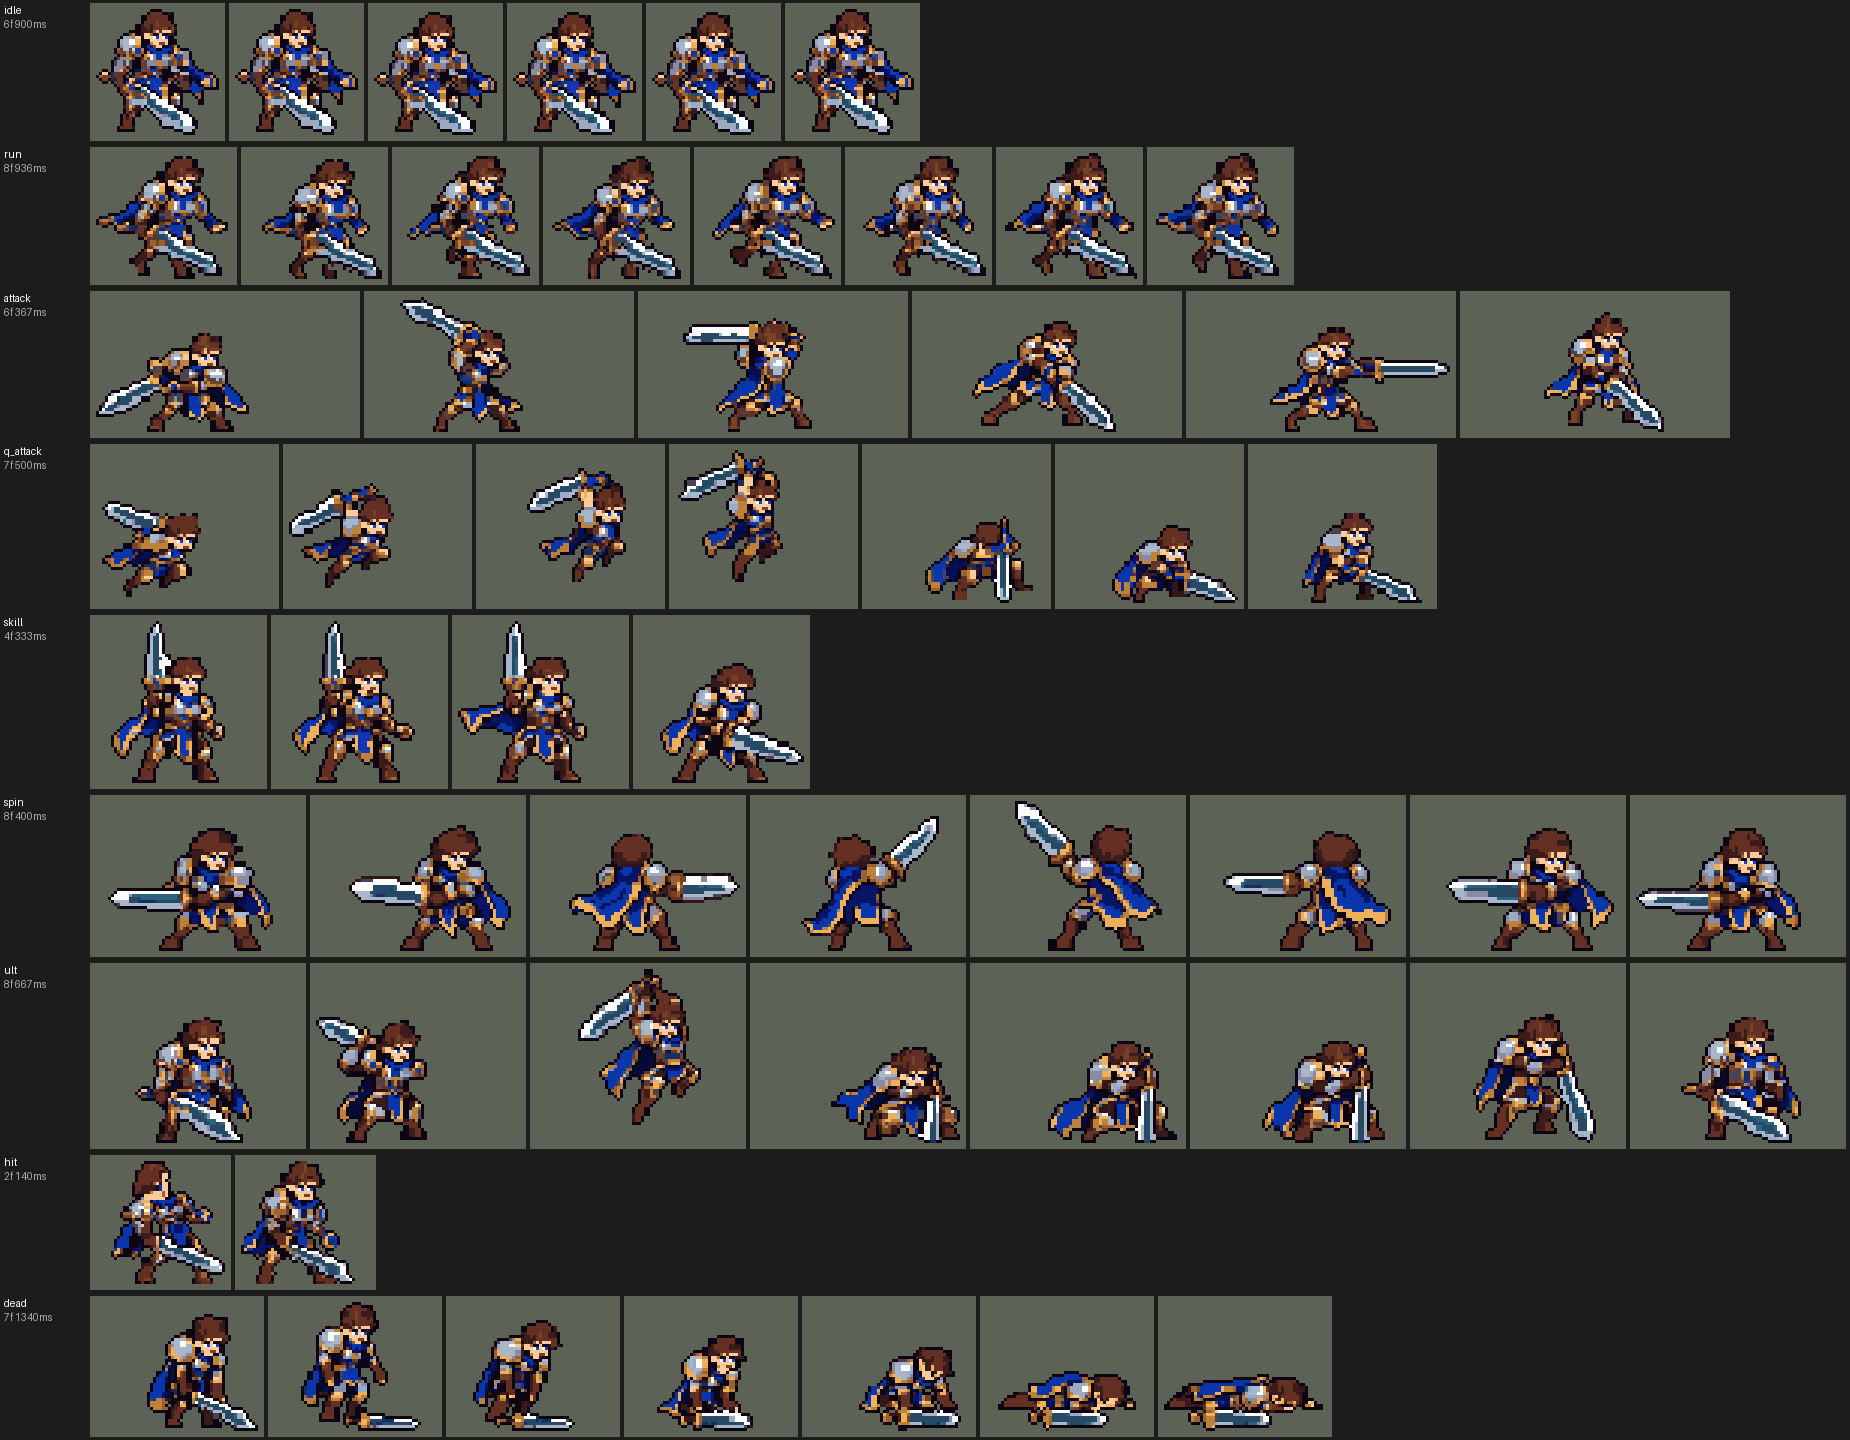
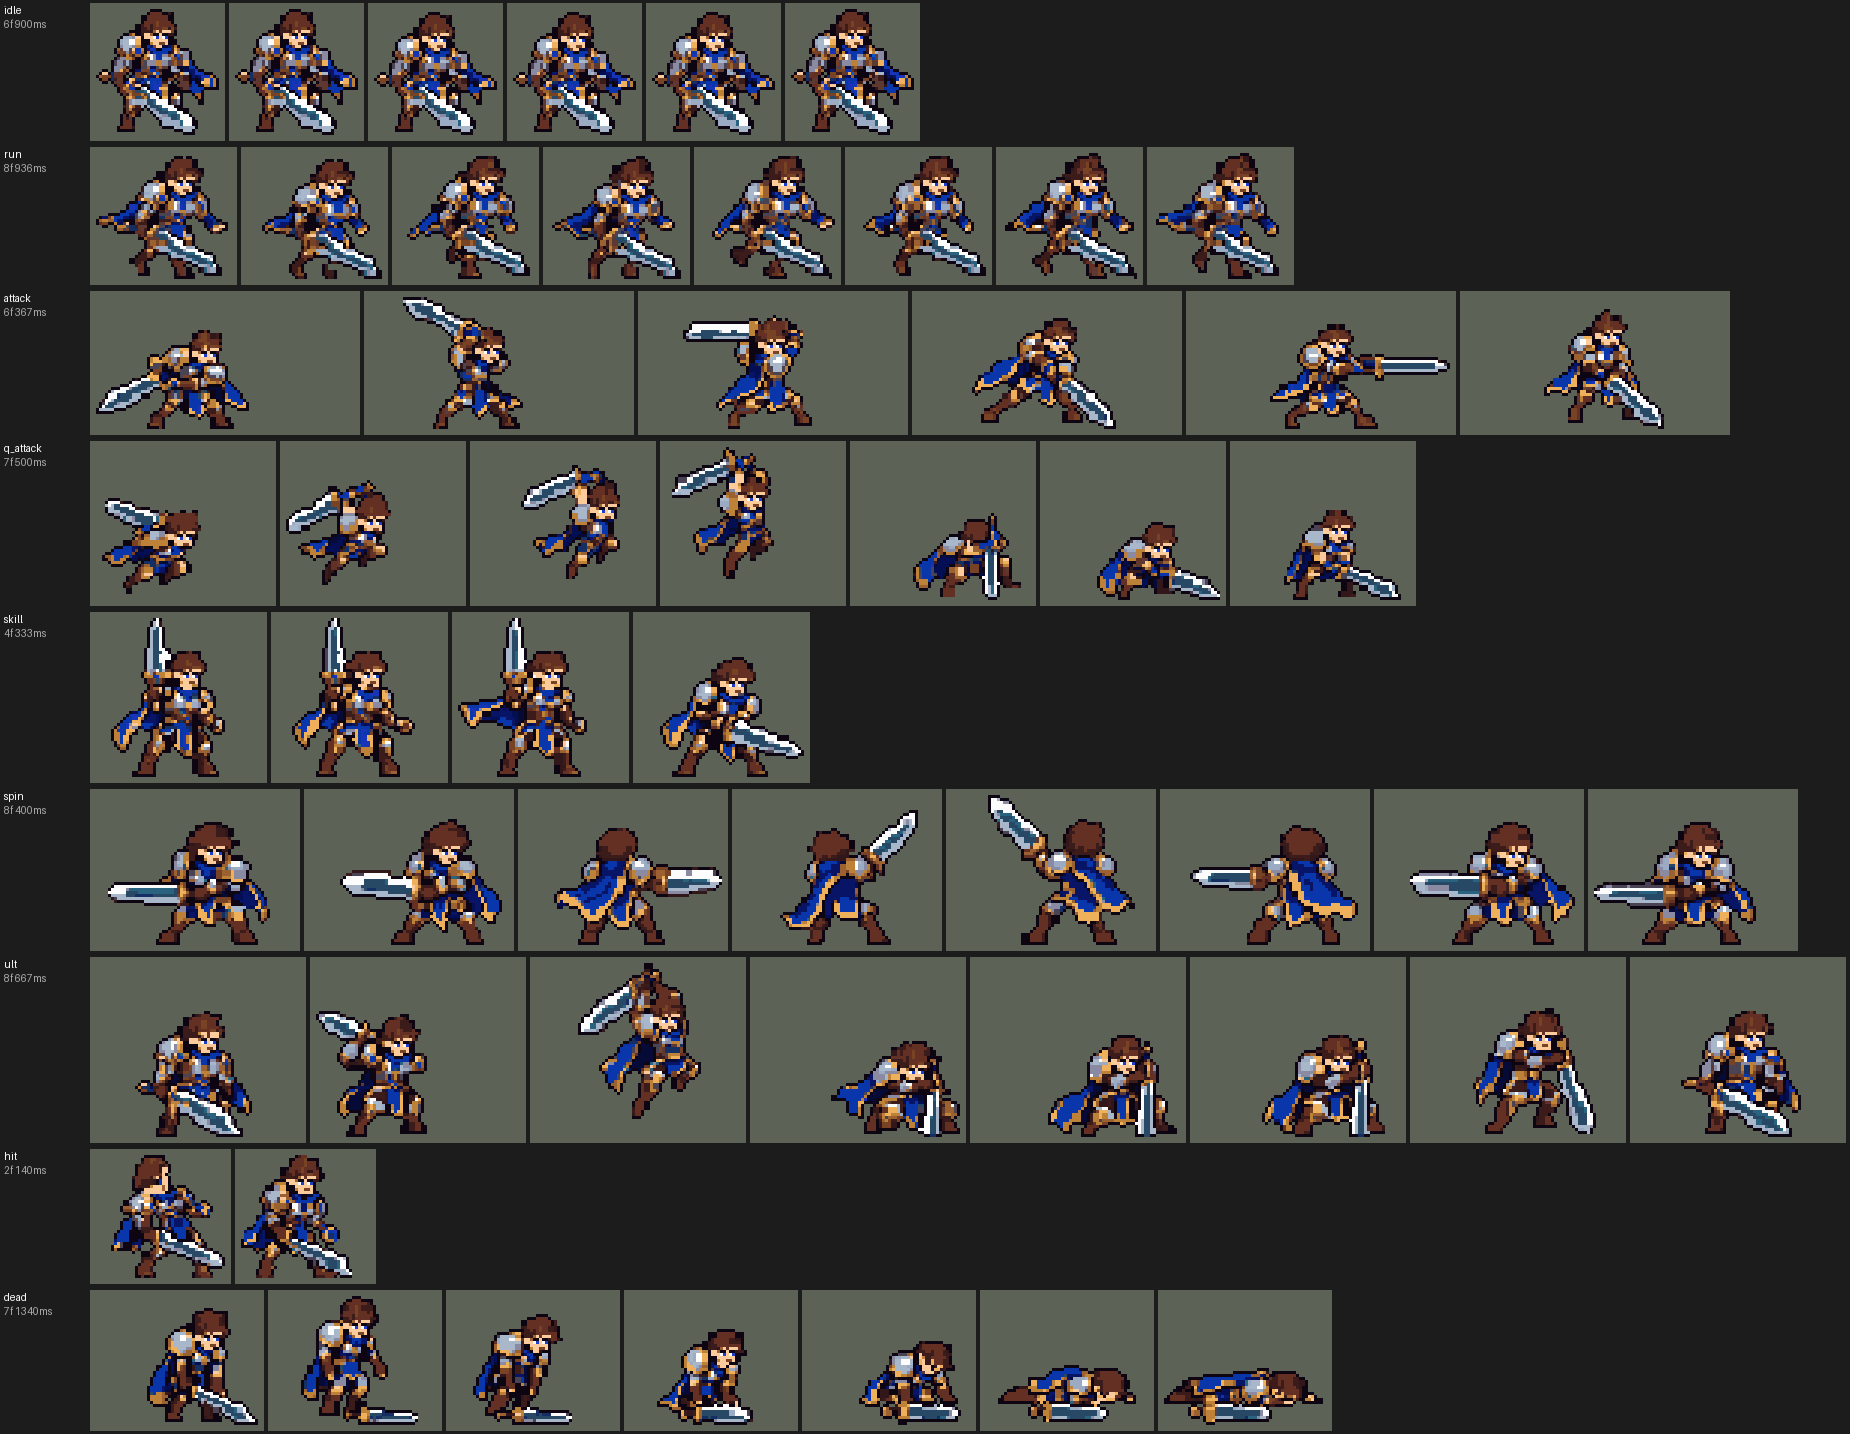
Garen: breathe above the sword (seam at the waist), clear the blade's dark spurs
The user: "剑触碰到地面直接变形" - carrying the sword down with the body cut its
tip on the soles row. BOB's seam for his idle moves to row -4 (over the hilt):
the sword and legs are one drawing in every idle frame; BOB_CARRY emptied.
SPURS clears the dark spurs and dots GROW left under the slanted blade.

diff --git a/tools/art/import_native.py b/tools/art/import_native.py
@@ -271,8 +271,9 @@ BOB = {("yasuo", "idle"): (-2, [2, 3, 4]),
        ("amumu", "idle"): (6, [2, 3, 4]),
        # Jinx: the seam across her boots' shafts, her soles stay
        ("jinx", "idle"): (6, [2, 3, 4, 5]),
-       # Garen: the seam across his greaves, his sabatons stay
-       ("garen", "idle"): (6, [2, 3, 4]),
+       # Garen: the seam at his waist (row -4), over his hands' sword: head, chest and arms breathe, the sword and legs
+       # stay one drawing (a seam lower bent the blade, and carrying it down cut the tip on the ground: "剑触碰到地面直接变形")
+       ("garen", "idle"): (-4, [2, 3, 4]),
        # Ashe: the seam across her boots' shafts, her soles stay. Codex's redraw hangs the cloak down to 8 rows
        # under the pivot and leaves 4 rows of boots: at 6 the seam cut the cloak's last row off her thighs and
        # the legs seemed to come apart ("腿像分开了一样"); at 9 the outline does not change (6 squares of colour)
@@ -338,7 +339,7 @@ BOB = {("yasuo", "idle"): (-2, [2, 3, 4]),
 # that part's dark outline) sinks with the upper body instead of staying, so the weapon moves as one piece; what it
 # would push under the soles row is dropped (the tip planted). Garen's sword runs from his hands (above the seam)
 # down to its tip on the soles row; it bent at the seam every breath (the user: "怎么盖伦上下摆动剑变形").
-BOB_CARRY = {("garen", "idle"): ["FCFCFC", "296380", "284965", "9BABC3", "A9B7CB", "8A8AA3", "4A4353"]}
+BOB_CARRY = {}   # Garen's sword was carried here, then the seam moved over it (BOB)
 # (hero, tag): (reference slot, weapon colours, top row) - one drawing of a held weapon for the whole loop: in every
 # frame the weapon (the pieces of these colours under pivot row `top`, with their dark outline) is taken out and the
 # reference frame's weapon put where it overlaps the frame's own best (a whole-pixel move); squares it leaves bare take
@@ -349,6 +350,10 @@ RIGID = {("garen", "run"): (0, ["FCFCFC", "296380", "284965", "9BABC3", "A9B7CB"
 # and cleaned): the user's clean-up of dirty black blocks and stray squares inside the silhouette (2026-10-02:
 # "盖伦把黑边清理干净 有杂的黑色的地方", "风女 莫甘娜 不干净的黑色块也太多了", "莫甘娜头部有很多多余的方块", "阿狸也是都给我清理干净")
 TIDY = {}
+# hero: weapon colours - after the outline, dark spurs and dots hanging off the weapon's outline (a near-black pixel
+# within 2 px of the weapon with 3 or 4 clear sides) are cleared, twice. GROW copied rows through Garen's slanted
+# blade and doubled its outline's steps: dots hung under the blade in every frame (the user: "剑触碰到地面直接变形").
+SPURS = {"garen": ["FCFCFC", "296380", "284965", "9BABC3", "A9B7CB", "8A8AA3", "4A4353"]}
 CROWN = {"leesin"}              # heroes whose head template starts at the crown (a braid stands above it)
 PASTED = {"masteryi"}            # steadied on the head restyle_native pasted: his raised sword is the top of every frame
 # Codex's step-2 redraw (model_strips_18, tidied by tidy_codex18.py): the approved design's head (or face) is in every
@@ -1039,6 +1044,28 @@ def close_outline(hero, sheet):
     return added, darkened, tidy
 
 
+def clear_spurs(hero, sheet):
+    """SPURS: the dark spurs round the weapon cleared; the pixels cleared."""
+    if hero not in SPURS:
+        return 0
+    want = np.array([[int(c[i:i + 2], 16) for i in (0, 2, 4)] for c in SPURS[hero]])
+    n = 0
+    for frames in sheet.values():
+        for a, _ in frames:
+            near = (a[..., 3] > 0) & (a[..., None, :3] == want).all(-1).any(-1)
+            for _ in range(2):
+                q = np.pad(near, 1)
+                near = near | q[:-2, 1:-1] | q[2:, 1:-1] | q[1:-1, :-2] | q[1:-1, 2:] | q[:-2, :-2] | q[:-2, 2:] |                     q[2:, :-2] | q[2:, 2:]
+            for _ in range(2):
+                op = a[..., 3] > 0
+                q = np.pad(op, 1)
+                clear = (~q[:-2, 1:-1]).astype(int) + (~q[2:, 1:-1]) + (~q[1:-1, :-2]) + (~q[1:-1, 2:])
+                spur = op & near & (G.lum(a[..., :3]) < 45) & (clear >= 3)
+                a[spur] = 0
+                n += int(spur.sum())
+    return n
+
+
 def tidy_frames(hero, sheet):
     """TIDY: the hero's own clean-up module on every finished frame; the pixels it changed."""
     if hero not in TIDY:
@@ -1120,6 +1147,9 @@ def main():
             print(f"{hero}: outline closed with {added} pixels added, {darkened} darkened on the feet line")
         if tidy:
             print(f"{hero}: outline tidied: " + ", ".join(f"{k} {v}" for k, v in tidy.items()))
+        spurs = clear_spurs(hero, sheet)
+        if spurs:
+            print(f"{hero}: {spurs} dark spurs round the weapon cleared")
         tidied = tidy_frames(hero, sheet)
         if tidied:
             print(f"{hero}: {TIDY[hero]} changed {tidied} pixels")

diff --git a/README.md b/README.md
@@ -1821,7 +1821,7 @@ python tools/art/preview_leblanc.py
 - 盖伦的尺寸：待机从 37 行放大到 42 行。`tools/art/import_native.py` 的 `GROW` 在导入的最后一步整行整列复制像素：从脚底往上、从站位点往两边，每 7.4 行（列）复制一行（列），每段里挑复制后最不显眼的一行（单像素细线最少，描边算三倍），不经过脚底；不缩放、不加新颜色，原图每个像素都在。待机、跑步每帧复制同样的身体行列，不会闪。
 - 盖伦的头按设计放大（`HEAD` / `HEAD_BOX`，从眼睛那一格算）：复制一行头发、眼睛下面脸颊的一行、一列后脑头发和远侧眼睛那一列，头上不再复制别的行列。
 - 盖伦的右眼（`FACE_FIX`）：原来只是一格灰蓝色、上面是皮肤，和左眼（黑眼皮、眼白、蓝瞳孔）不一样。放大后这只眼睛占两格，涂成和左眼一样的眼皮、眼白和瞳孔；两眼之间眉毛那一格改成皮肤，两只眼不连成一条。每帧只要脸和设计一样就改（47 帧）。
-- 盖伦的剑：放大后呼吸和跑步时剑会变形（用户：「怎么盖伦上下摆动剑变形」）。待机的呼吸（`BOB`）改成放大以后再加，并且整把剑跟着手一起下沉 1 行（`BOB_CARRY`，剑尖贴地那格不往下压）；跑步 8 帧 Codex 各画了一把剑，现在都换成第 1 帧那一把，按每帧手的位置摆（`RIGID`），旧剑的边和碎点清掉。
+- 盖伦的剑：放大后呼吸和跑步时剑会变形（用户：「怎么盖伦上下摆动剑变形」「剑触碰到地面直接变形」）。待机的呼吸（`BOB`）改在放大以后加，分界从小腿移到腰（第 −4 行）：头、胸、手臂下沉 1 行，剑和腿每帧完全一样（先试过让剑跟着手一起沉，剑尖碰到地面被切掉一格，像变形）；跑步 8 帧 Codex 各画了一把剑，现在都换成第 1 帧那一把，按每帧手的位置摆（`RIGID`），旧剑的边和碎点清掉；放大时复制行列把剑下沿的台阶轮廓也复制了，剑下挂着的黑刺和黑点在最后清掉（`SPURS`）。
 - 盖伦的黑边和嘴：外轮廓按剑姬、盲僧的规则整理成一圈 1 px 黑边（`COMPLETE`、`CLEAN`、`STRICT`）；脸上原来没有嘴，按用户「盖伦的嘴再做帅一点」「盖伦你选一个最合适的」，在两眼下方偏前的位置加两格深棕色的抿嘴线，远侧下颌加一格金棕阴影（`FACE_FIX` 第二组）。
 - 德莱厄斯跑步（`HEAD_MOVE`，不放大）：Codex 画的走路动作保留（用户：「原来的走路姿势是最好的 问题是头和身体不协调」）。8 帧用的是同一个贴上去的头，一直钉在原地，可第 1 帧的身体比别的帧往前冲了 5 px、第 4 帧往前 3 px 还低 1 行（按肩膀和胸口对第 8 帧量的），所以这两帧看着像身子跑出去、头留在后面。现在这两帧的头跟着身体挪过去，头挪开露出的那一小块用第 8 帧同一位置的肩甲补上；别的帧、腿、斧头、披风都和原来一样。之前试过的两种「统一身体」（下巴以上、膝盖以上用同一张）被否掉：一种胸口像断开，一种身体僵住只有脚在动。
 - 跟着改的：盖伦 W「勇气」的光环按身高放大 1.135 倍、移到身体中间（`import_garen.py`）；盖伦头像截取点跟着眼睛移到 (−2, −39)；选人卡片按下面的规则设 −39 − 待机最高点 = −9（新设，最高点到了 −30）。别的英雄演示动图里的盖伦还是旧尺寸，没有重画。

diff --git a/.claude/skills/tfm2-hero-mod/references/art-spec.md b/.claude/skills/tfm2-hero-mod/references/art-spec.md
@@ -625,11 +625,13 @@ The route used for Garen in TFM2-League-Heroes: prompts in `assets/source/<hero>
   measure each frame's body against a reference frame (best colour match of the shoulders and chest, the head left
   out), and move only the head by that offset in the frames that are off (`HEAD_MOVE`); the strip the head uncovers
   takes the reference frame's pixels at the same place on the body. Change the least: the user liked the motion.
-- **Grow first, then breathe; a held weapon moves in one piece (league_garen).** Copied rows fixed in the sheet met the
-  breathing frames' moved sword a row off, so it bent with every breath ("怎么盖伦上下摆动剑变形"): a growing hero's BOB
-  runs after GROW at the grown seam, `BOB_CARRY` sinks the weapon's part under the seam with the body (what would go
-  under the soles is dropped: the tip stays planted), and `RIGID` puts one drawing of the weapon in every frame of a
-  loop that Codex redrew per frame (the old blade, its 2-px dark ring and loose crumbs cleared first).
+- **Grow first, then breathe above the weapon (league_garen).** Copied rows fixed in the sheet met the breathing
+  frames' moved sword a row off, so it bent with every breath ("怎么盖伦上下摆动剑变形"): a growing hero's BOB runs after
+  GROW at the grown seam. Carrying the sword down with the body (`BOB_CARRY`) cut its tip on the soles row
+  ("剑触碰到地面直接变形"); the seam moved up to his waist instead, over the hands' hilt, so the sword and legs are one
+  drawing in every idle frame and only head, chest and arms breathe. `RIGID` puts one drawing of the weapon in every
+  frame of a loop that Codex redrew per frame, and `SPURS` clears dark spurs and dots GROW left hanging off a slanted
+  blade's doubled outline steps.
 
 ## QA checklist
 
